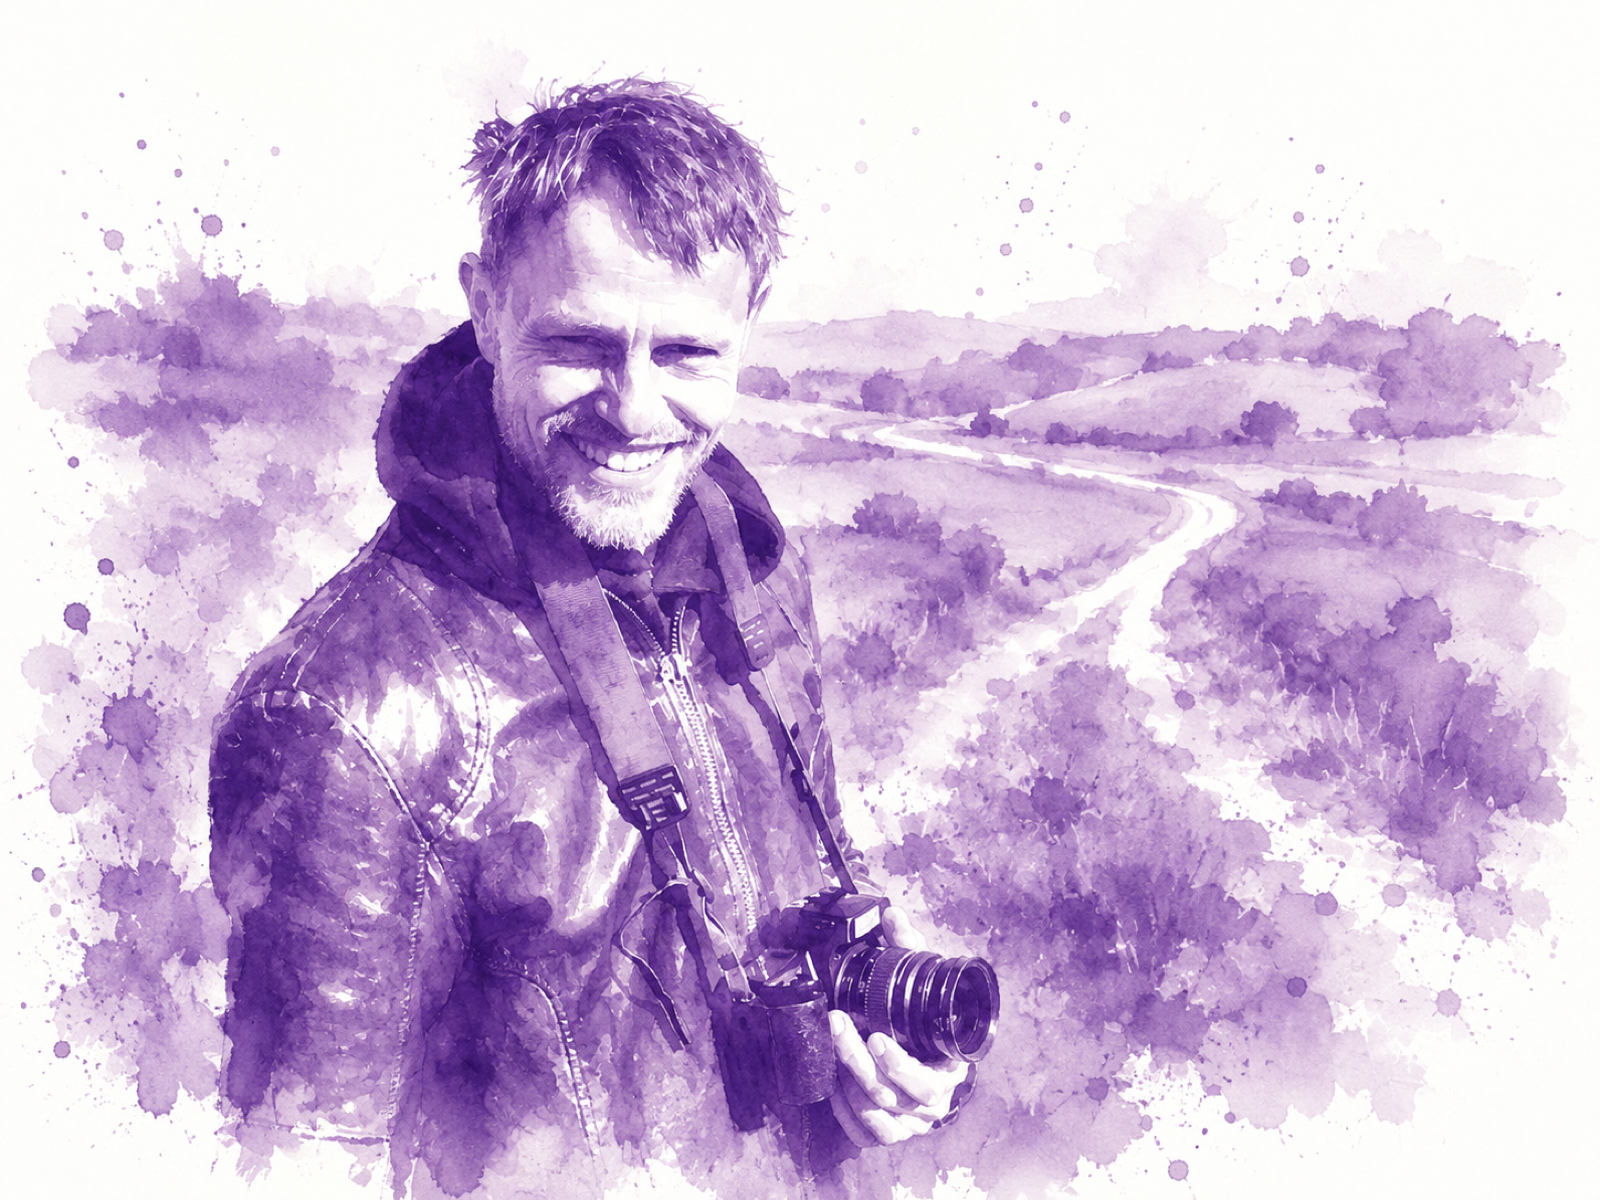
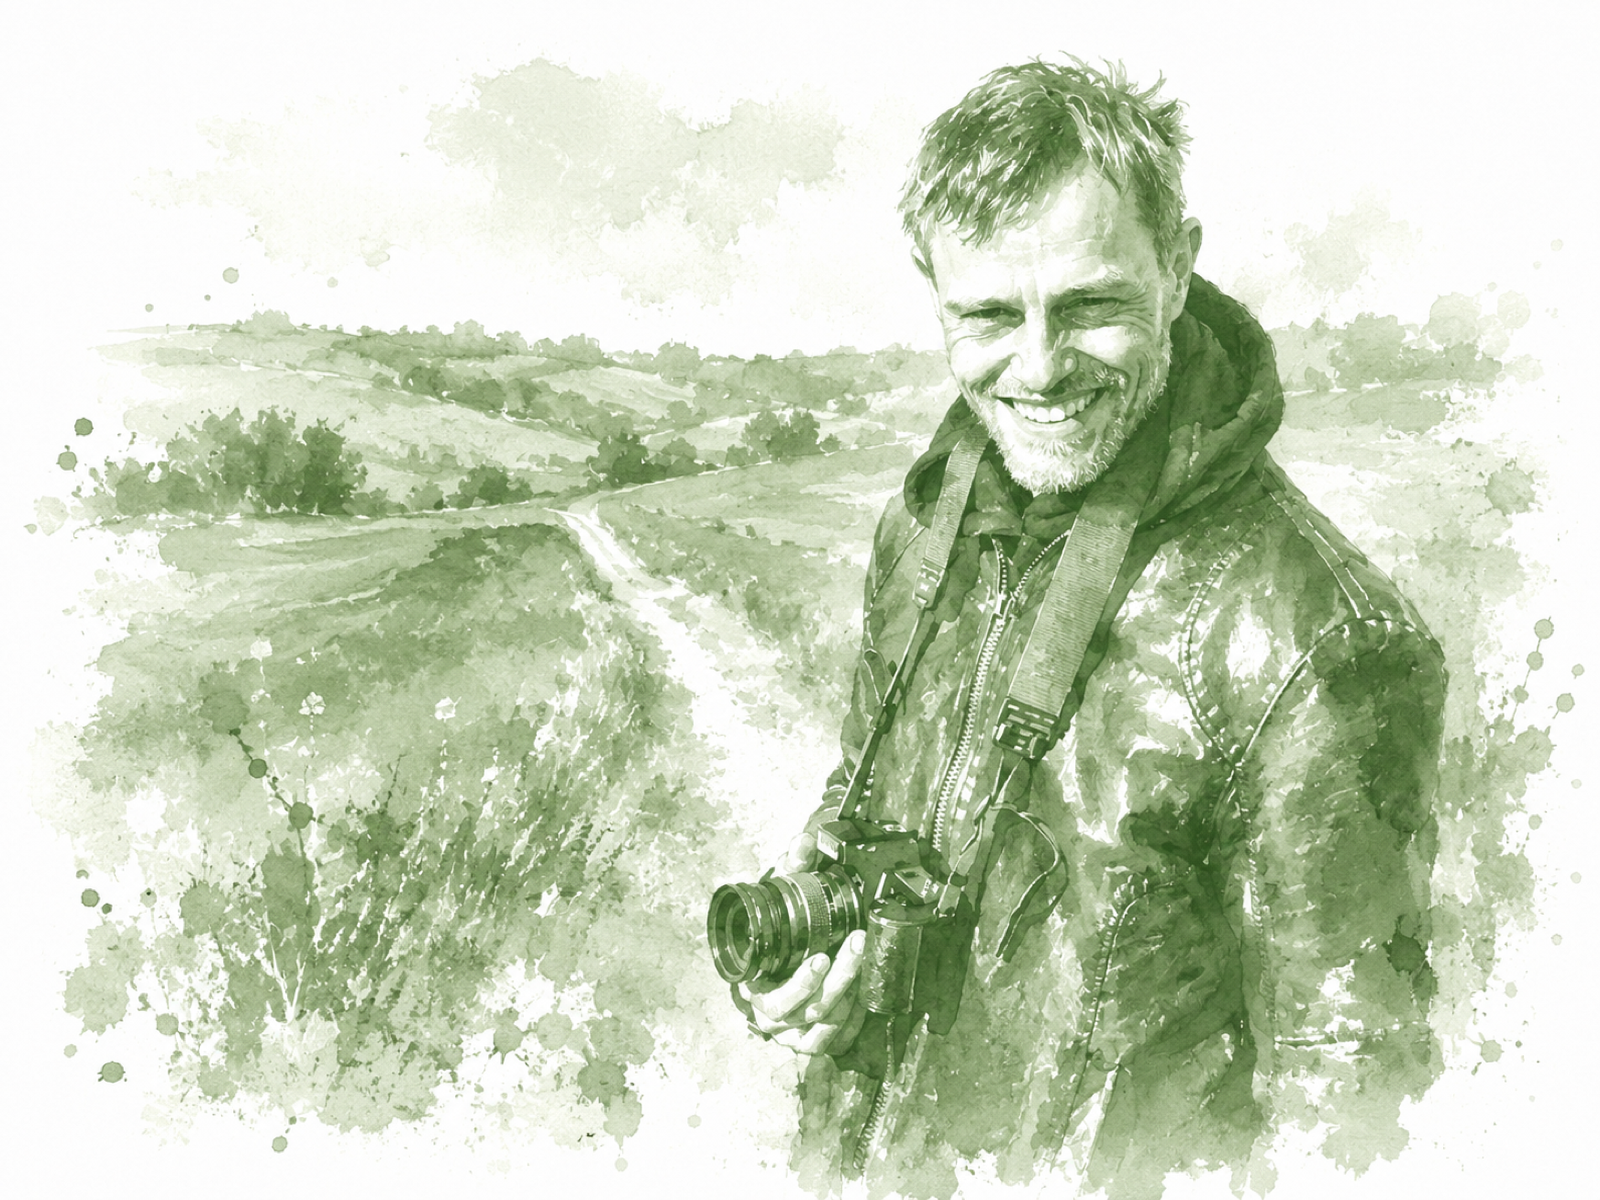
about hero: grünes Portrait, contain wie kontakt

diff --git a/styles.css b/styles.css
@@ -457,7 +457,8 @@ h4 {
   font-size: clamp(80px, 11vw, 148px);
 }
 
-.page-contact .hero-deco-img.hero-deco-full {
+.page-contact .hero-deco-img.hero-deco-full,
+.page-about .hero-deco-img.hero-deco-full {
   object-fit: contain;
   object-position: right center;
 }